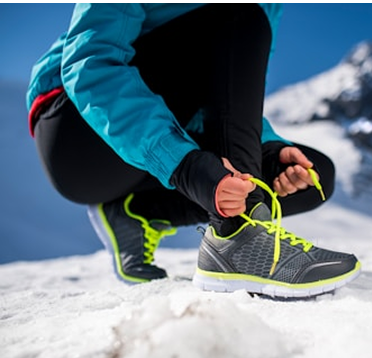
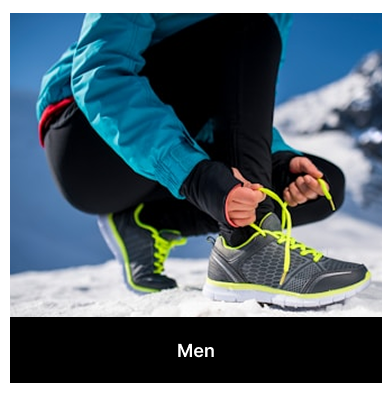
d

diff --git a/src/component/Cartegories.jsx b/src/component/Cartegories.jsx
@@ -1,8 +1,16 @@
-function Cartigories () {
-    return(
-        <div className="mb-70 px-[2rem] md:px-[5rem]">
-            <h1 className="text-[40px] font-bold text-center md:text-[49px] md:text-left">Categories</h1>
-        </div>
-    )
+function Cartigories() {
+  return (
+    <div className="mb-70 px-[2rem] md:px-[5rem]">
+      <h1 className="text-[40px] font-bold text-center md:text-[49px] md:text-left">
+        Categories
+      </h1>
+
+      <div className="md:flex justify-between">
+        <img src="images/categories (3).png" alt="" />
+        <img src="images/categories (2).png" alt="" />
+        <img src="images/categories (1).png" alt="" />
+      </div>
+    </div>
+  );
 }
 export default Cartigories;
